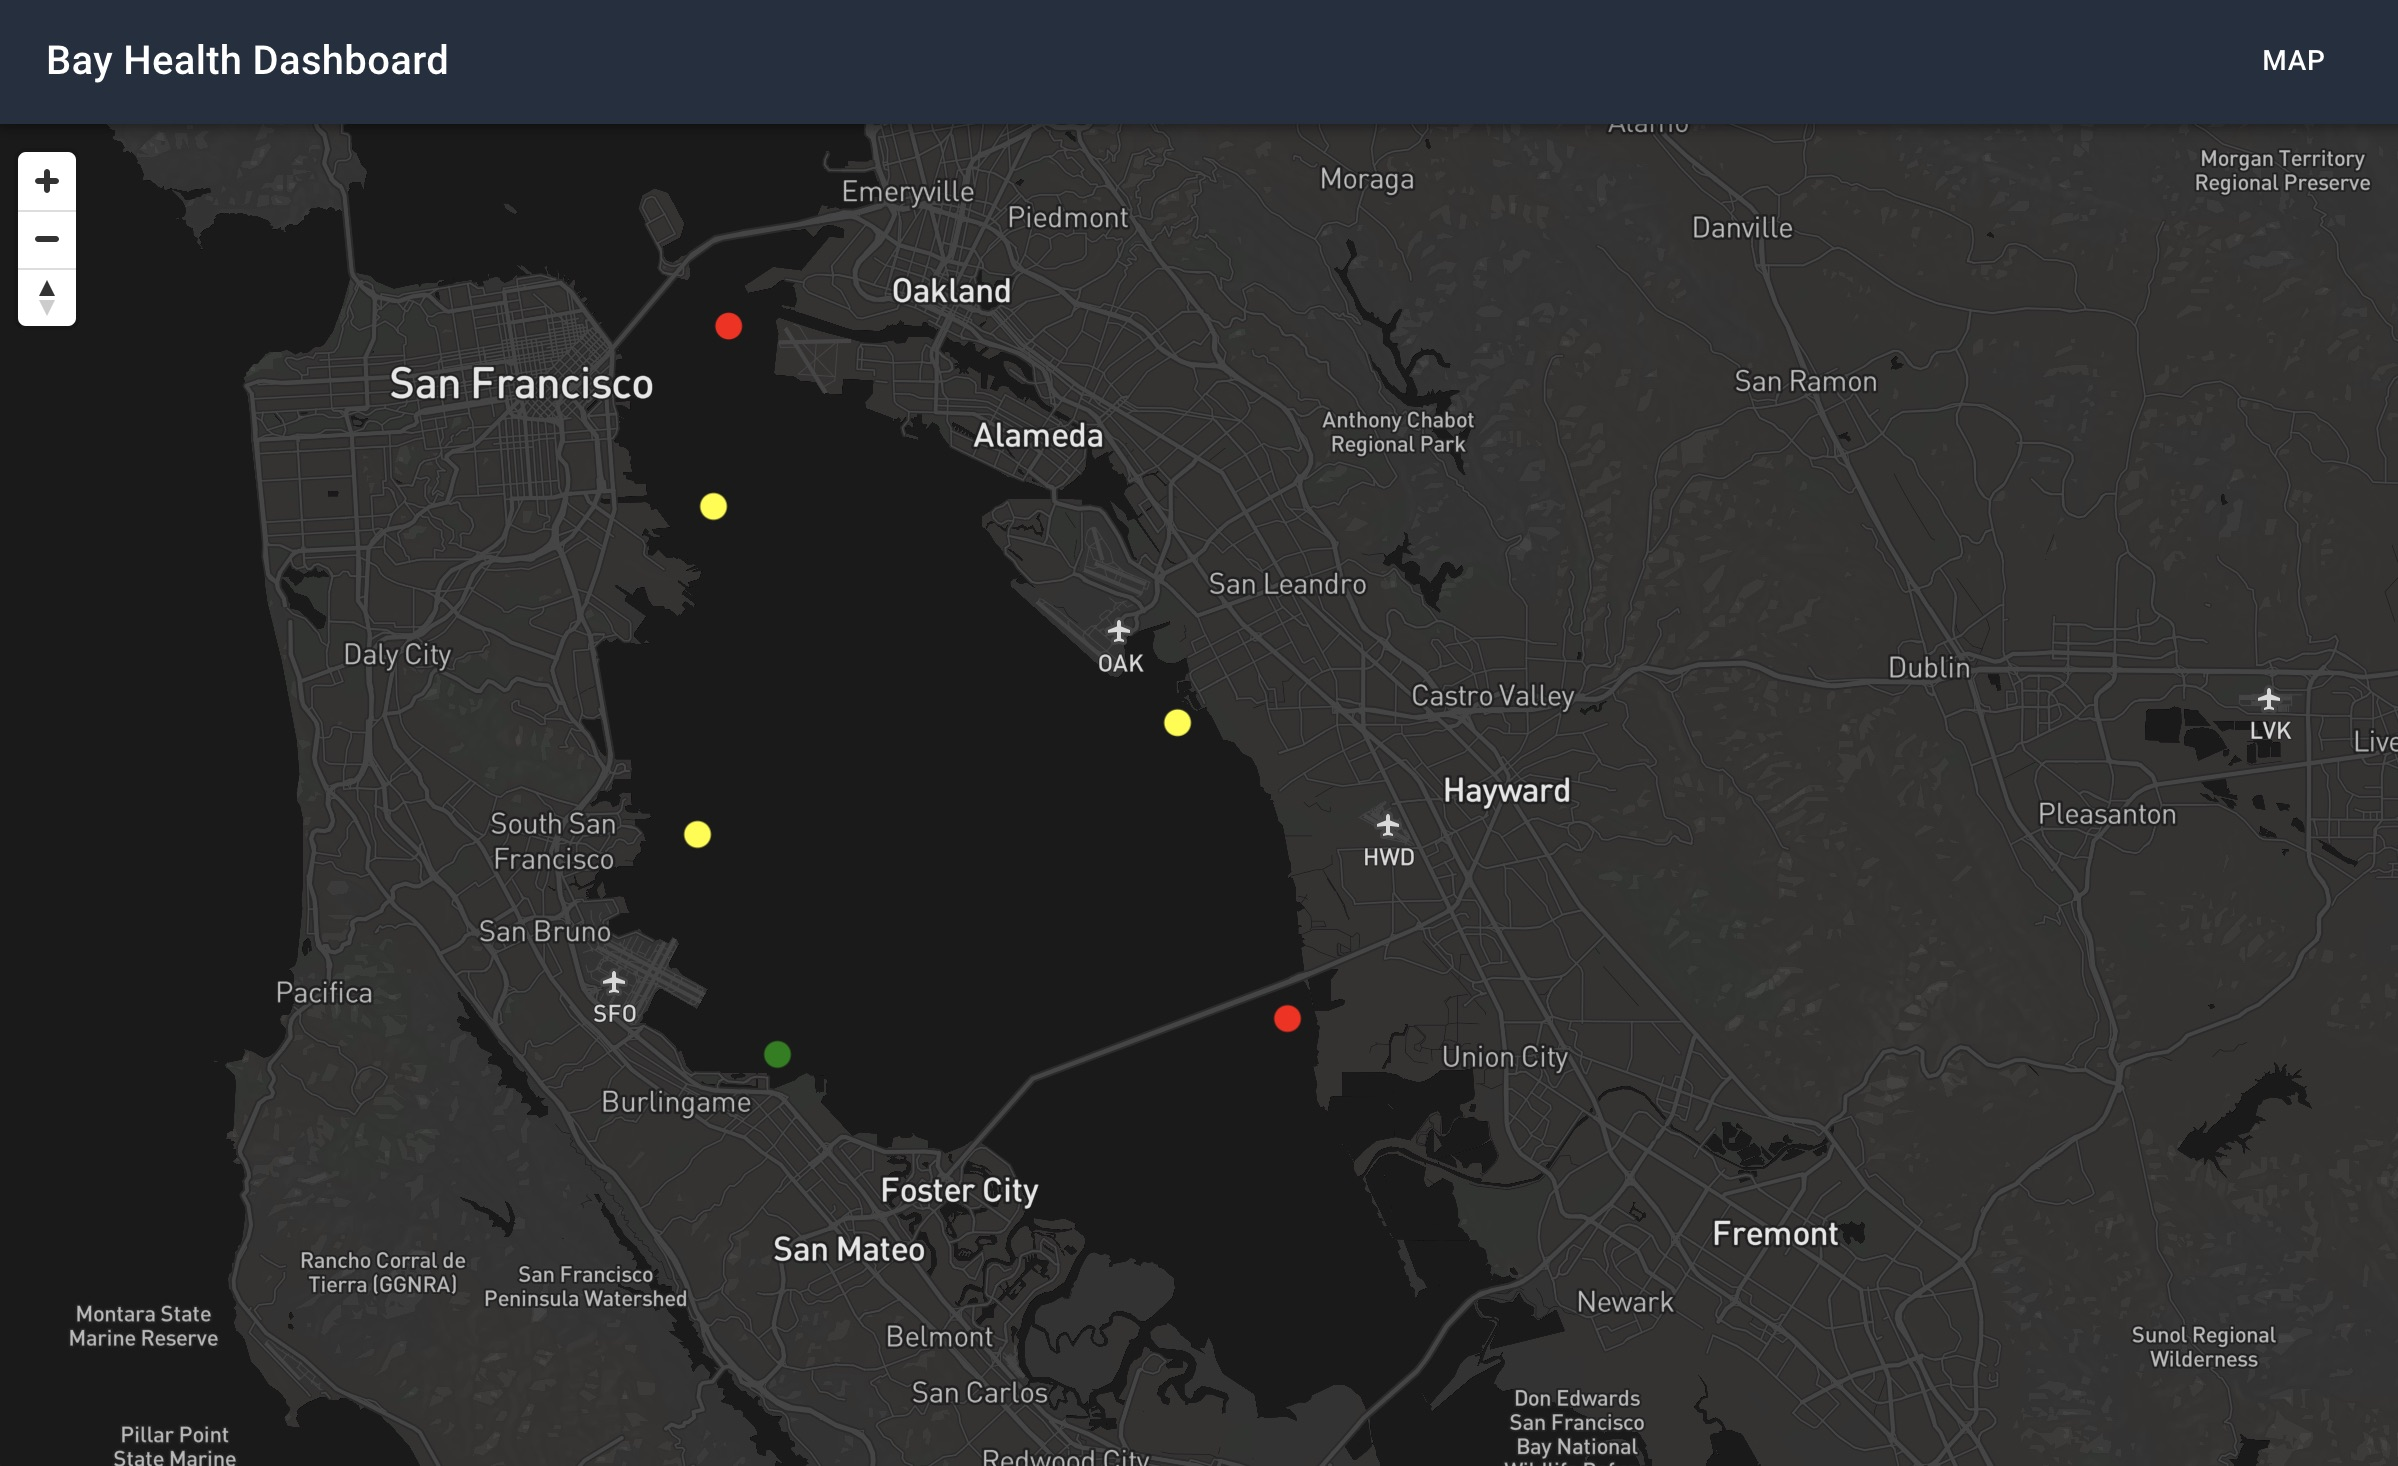
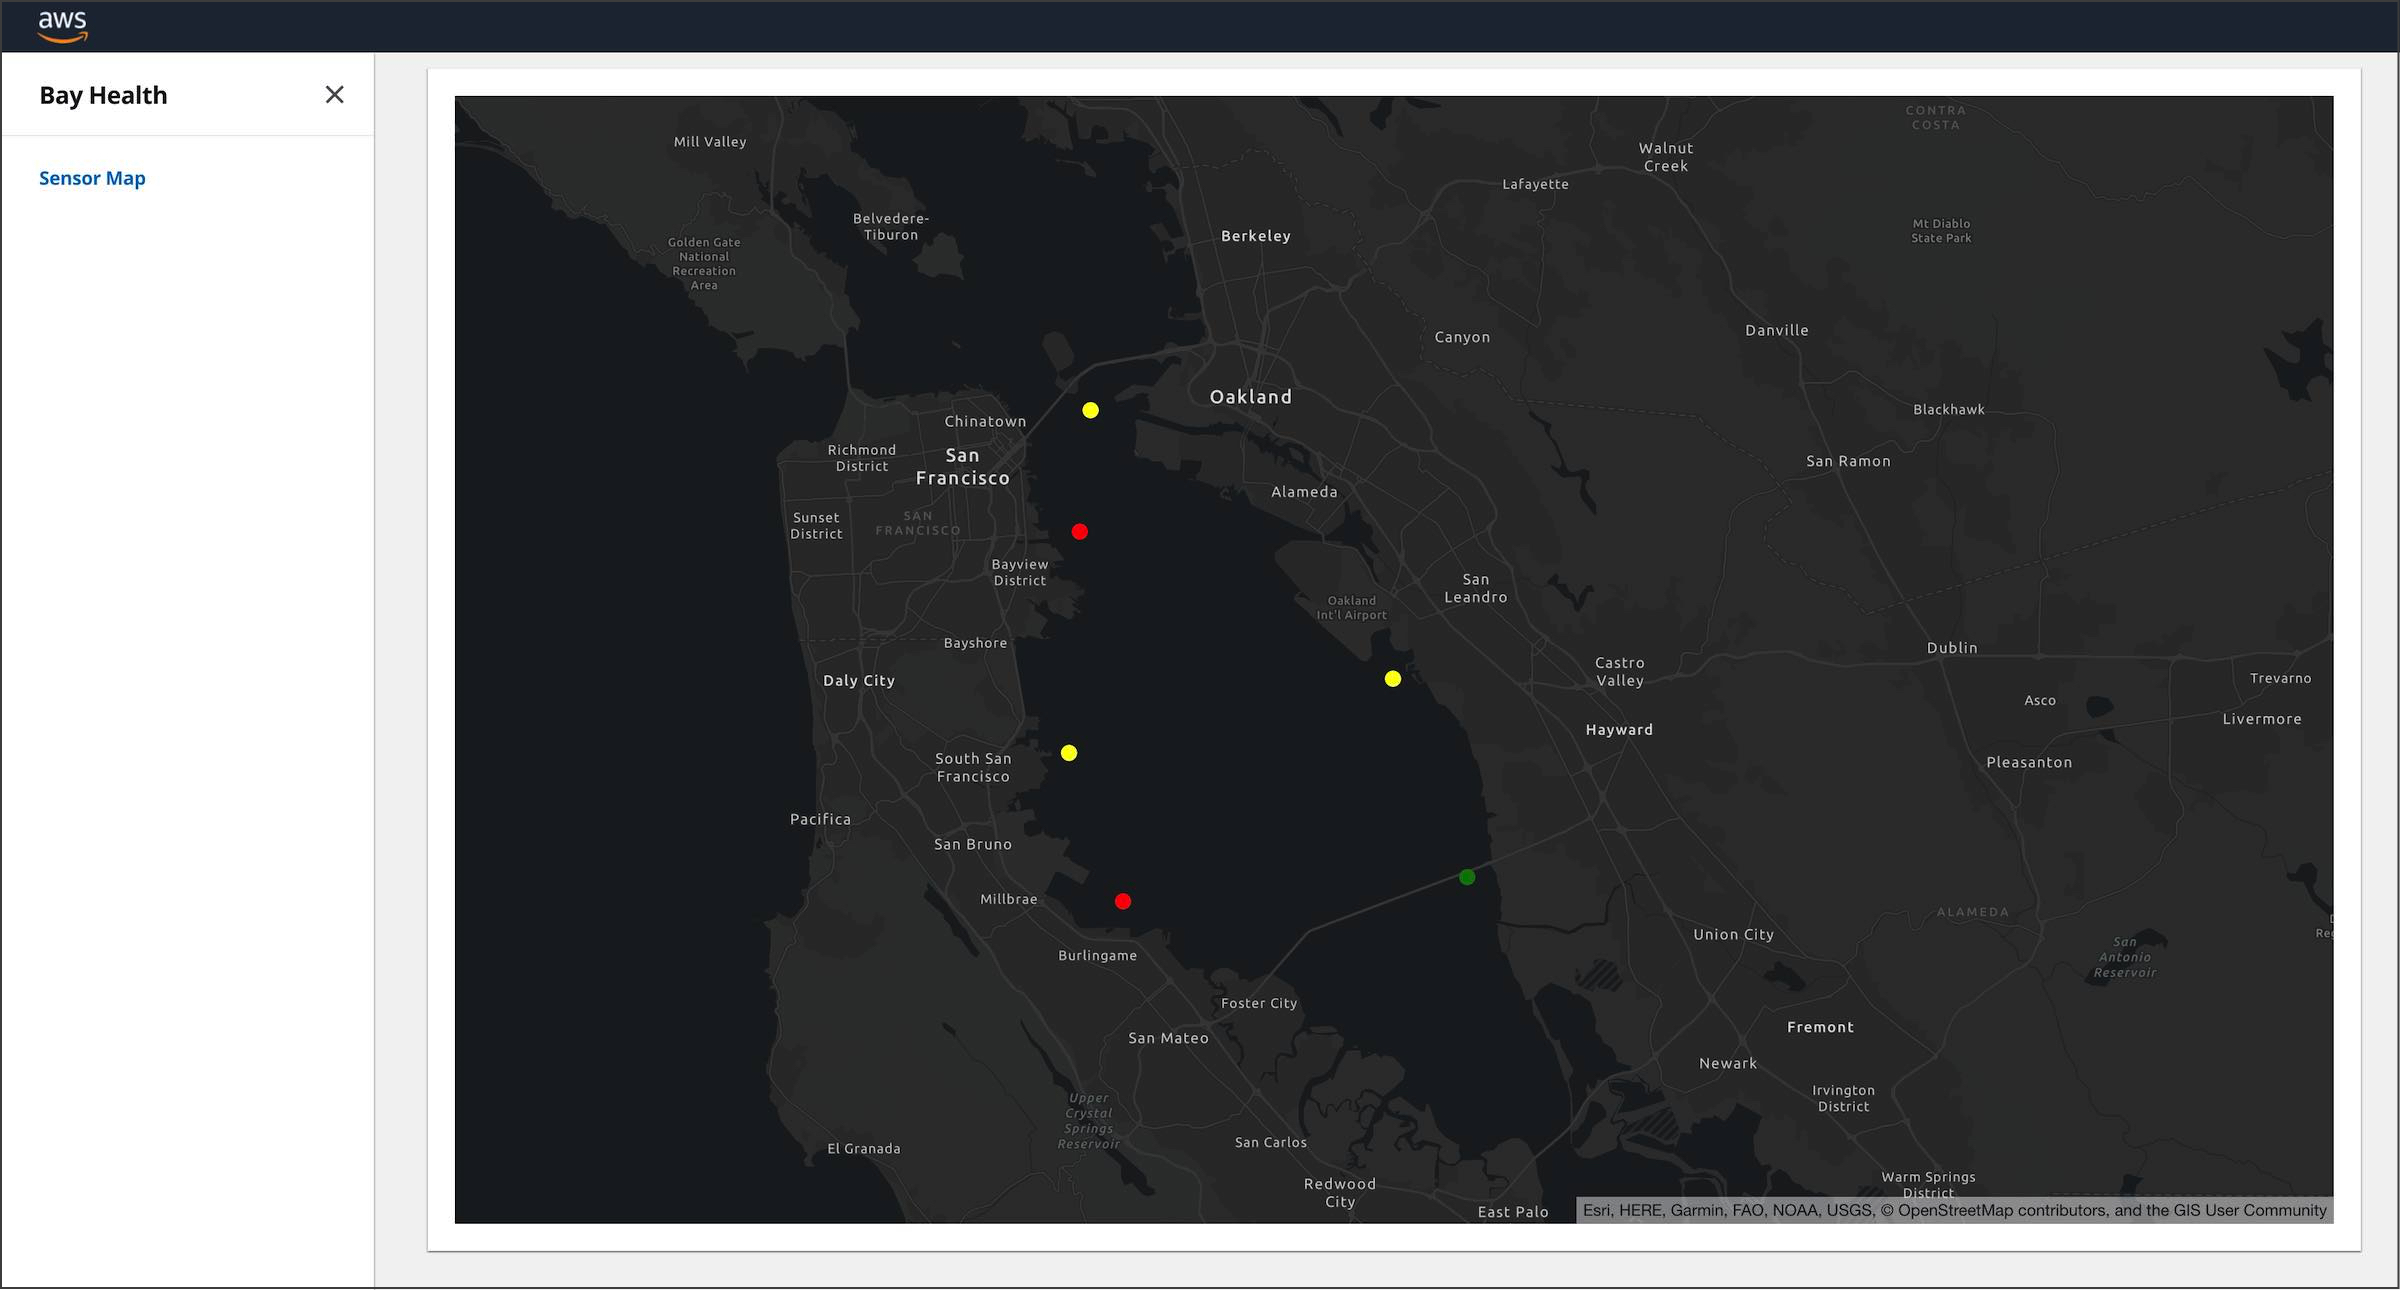
better container for Map and update README images

diff --git a/web/src/pages/MapPage/index.tsx b/web/src/pages/MapPage/index.tsx
@@ -6,6 +6,7 @@ import "maplibre-gl/dist/maplibre-gl.css";
 import { GetSensors, UpdateSensorMarker, GetSensorMarker } from '../../api/Sensors';
 import { API, graphqlOperation } from 'aws-amplify';
 import { onCreateSensorValues } from '../../graphql/subscriptions';
+import { Container, Header, Box } from '@awsui/components-react';
 
 import './index.css'
 
@@ -114,7 +115,9 @@ const MapPage: React.FC = () => {
 
 
     return (
-        <div id='map' />
+        <Container>
+            <div id='map' />
+        </Container>
     )
 }
 

diff --git a/web/src/pages/MapPage/index.css b/web/src/pages/MapPage/index.css
@@ -1,10 +1,6 @@
 #map {
-    position: absolute;
-    top: 0;
-    left: 0;
-    bottom: 0;
-    width: 100vw;
-    height: 100vh;
+    width: 100%;
+    height: 85vh;
 }
 
 .sensor {

diff --git a/README.md b/README.md
@@ -81,15 +81,25 @@ $ amplify status
 
 Current Environment: mysandbox
 
-| Category     | Resource name        | Operation | Provider plugin   |
-| ------------ | -------------------- | --------- | ----------------- |
-| Auth         | iotdashboardbce44907 | Create    | awscloudformation |
-| Api          | iotdashboard         | Create    | awscloudformation |
-| Function     | listsensors          | Create    | awscloudformation |
-| Function     | getsensor            | Create    | awscloudformation |
-| Function     | createsensorvalue    | Create    | awscloudformation |
-| Iotrule      | createsensorvalue    | Create    | awscloudformation |
-| Iotanalytics | batch                | Create    | awscloudformation |
+┌──────────────┬──────────────────────┬───────────┬───────────────────┐
+│ Category     │ Resource name        │ Operation │ Provider plugin   │
+├──────────────┼──────────────────────┼───────────┼───────────────────┤
+│ Auth         │ iotdashboard6b12339b │ No Change │ awscloudformation │
+├──────────────┼──────────────────────┼───────────┼───────────────────┤
+│ Function     │ listsensors          │ No Change │ awscloudformation │
+├──────────────┼──────────────────────┼───────────┼───────────────────┤
+│ Function     │ getsensor            │ No Change │ awscloudformation │
+├──────────────┼──────────────────────┼───────────┼───────────────────┤
+│ Function     │ createsensorvalue    │ No Change │ awscloudformation │
+├──────────────┼──────────────────────┼───────────┼───────────────────┤
+│ Api          │ iotdashboard         │ No Change │ awscloudformation │
+├──────────────┼──────────────────────┼───────────┼───────────────────┤
+│ Geo          │ iotdashboard         │ No Change │ awscloudformation │
+├──────────────┼──────────────────────┼───────────┼───────────────────┤
+│ Iotrule      │ createsensorvalue    │ No Change │ awscloudformation │
+├──────────────┼──────────────────────┼───────────┼───────────────────┤
+│ Iotanalytics │ batch                │ No Change │ awscloudformation │
+└──────────────┴──────────────────────┴───────────┴───────────────────┘
 ```
 
 **Deploy the app infrastructure to your AWS account**
@@ -215,76 +225,6 @@ From the QuickSight menu:
 
 ![Image description](images/quicksight.jpg)
 
-## The Mobile App
-
-![Image description](images/mobile.jpg)
-
-This project also contains a **React Native** mobile application.  In order to run this app you will also need a **Mac** with:
-
-- Xcode (^11.0)
-- Xcode iPhone Simulator enabled
-- Xcode Command-line Tools
-- CocoaPods
-
-**Install the mobile app**
-
-Switch to the project's **mobile** folder:
-
-```
-$ cd aws-appsync-iot-core-realtime-dashboard/mobile
-```
-
-Install the mobile app's Node.js packages
-
-```
-$ npm install
-```
-
-Install the mobile app's CocoaPods packages
-
-```
-$ cd ios
-$ pod install
-$ cd ..
-```
-
-Pull the Amplify backend environment into the mobile app
-
-```
-$ amplify pull
-
-? Do you want to use an AWS profile? (Y/n) Y
-? Please choose the profile you want to use: [default]
-? Which app are you working on? iotdashboard
-? Choose your default editor: [select your favorite IDE]
-? Choose the type of app that you're building: javascript
-? What javascript framework are you using: react-native
-? Source Directory Path:  src
-? Distribution Directory Path: dist
-? Build Command:  npm run-script build
-? Start Command: npm run-script start
-? Do you plan on modifying this backend? Yes
-```
-
-The mobile app also uses **MapBox** to display a map of the sensors.  Configure the MapBox token for the mobile app by adding your token to the ***src/settings.json*** file in the **mobile** folder:
-
-```
-{
-    "mapboxApiAccessToken": "your-token-here"
-}
-```
-
-Start the mobile app in the iOS Simulator
-
-```
-$ npm run ios
-```
-
-**Use the mobile app**
-
-Logon to the mobile app with the same credentials you created for the web app.
-
-Tap on a sensor in the map to view the real-time readings coming off the sensor.
 
 ## Cleanup
 
